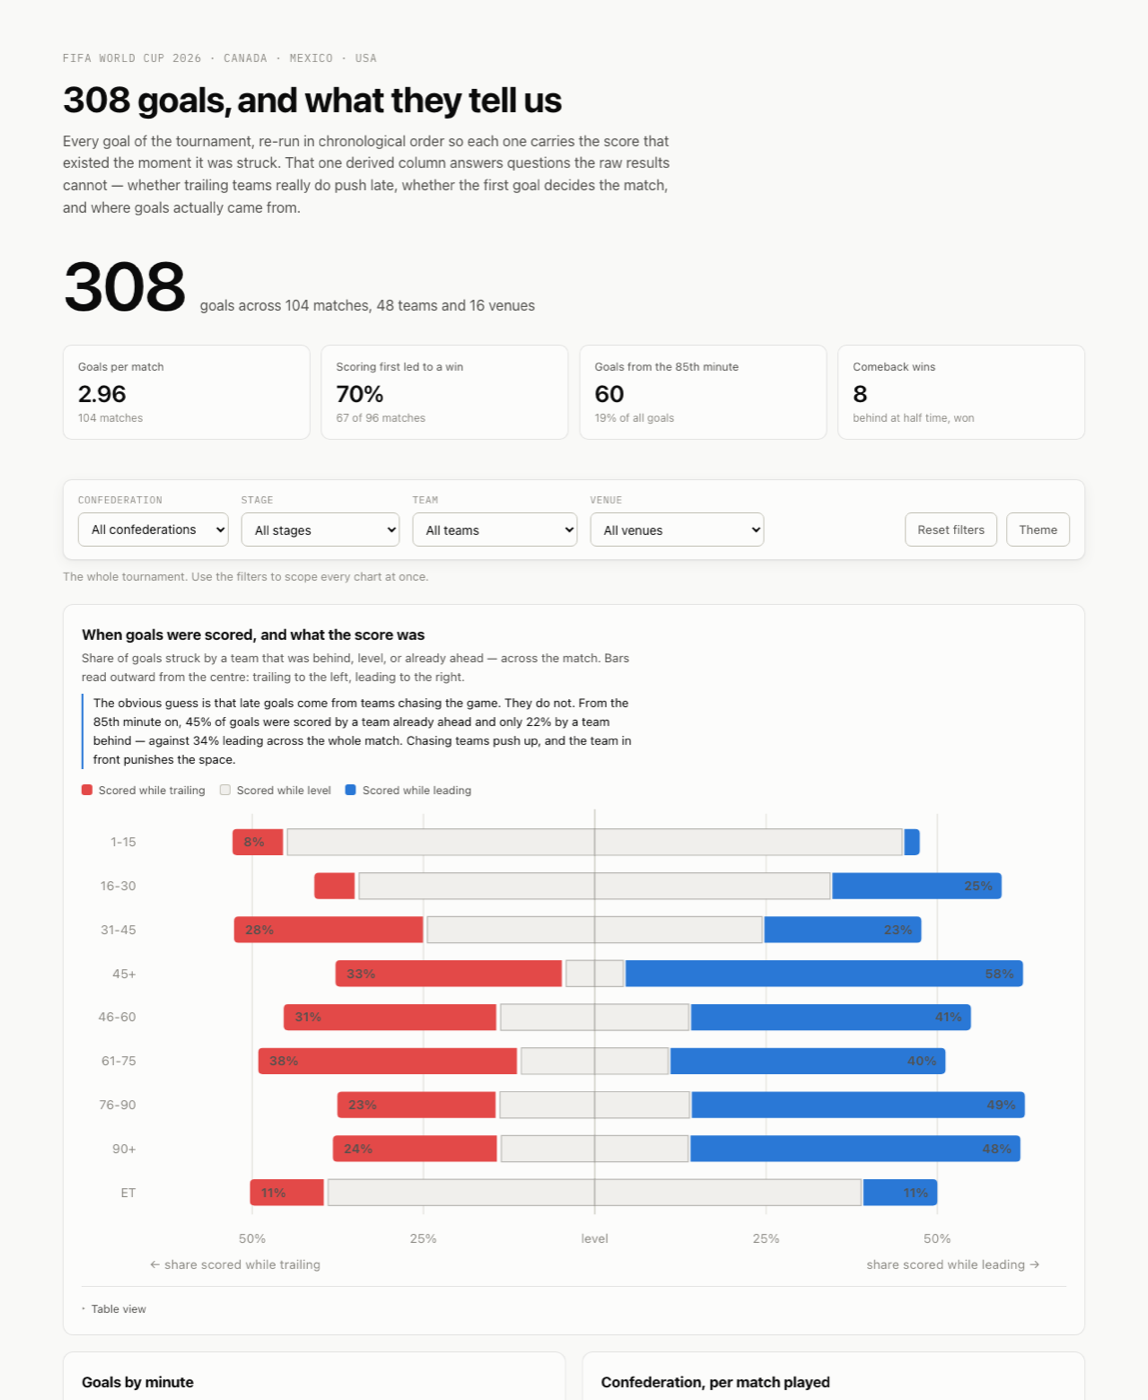
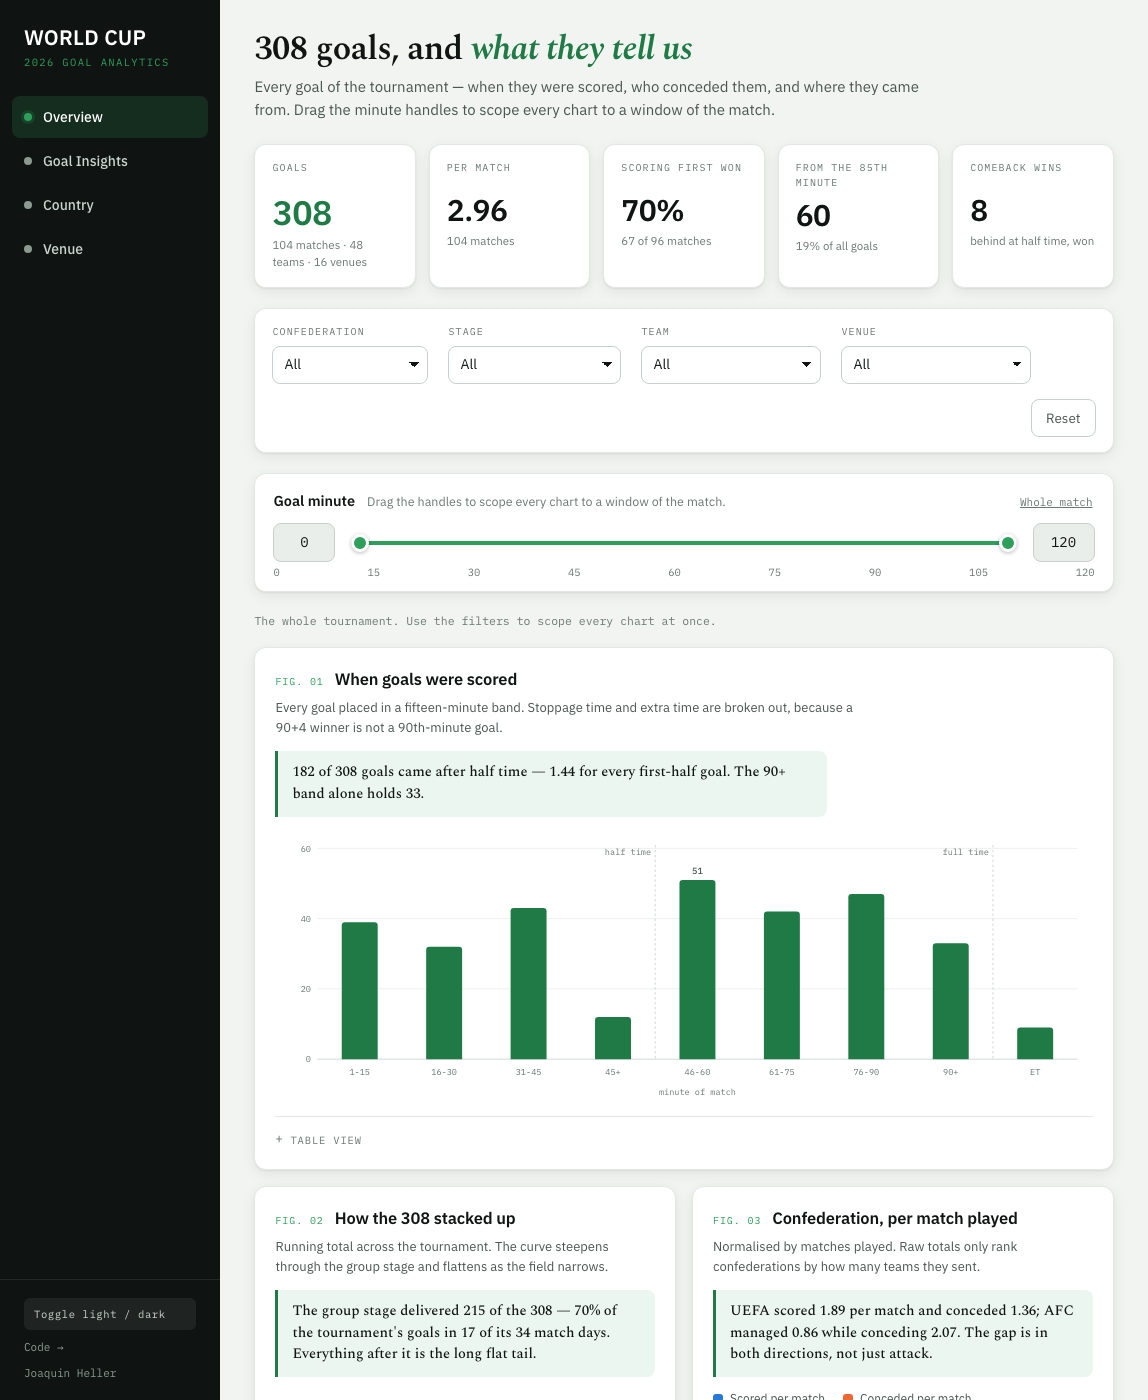
Update the World Cup case study for the rebuilt dashboard
Four views, the joined squad data, and the assertion count. New hero image.

diff --git a/projects/worldcup.html b/projects/worldcup.html
@@ -29,18 +29,29 @@
 <div class="shell article">
 <a class="back" href="../#work">← All work</a>
 
-<h1>308 goals, and the column that made them interesting</h1>
+<h1>308 goals, and the columns that made them interesting</h1>
 <div class="meta">
   <span>Python</span><span>Hand-rolled SVG</span>
-  <span>Data pipeline</span><span>Zero dependencies</span>
+  <span>Data pipeline</span><span>Zero dependencies</span><span>Joined sources</span>
 </div>
 <div class="prose">
 
 <p><a href="https://joacothecoder.github.io/worldcup-2026-dashboard/"><strong>Open the live dashboard →</strong></a> &nbsp;·&nbsp; <a href="https://github.com/JoacoTheCoder/worldcup-2026-dashboard">Code on GitHub</a></p>
 
 <figure>
-  <img src="../assets/worldcup.png" alt="The World Cup 2026 dashboard, showing a diverging bar chart of goals by score state across the match.">
+  <img src="../assets/worldcup.png" alt="The World Cup 2026 dashboard: a sidebar app showing goals by minute, KPI tiles and a cumulative goal curve.">
 </figure>
+
+<h2>What it does now</h2>
+<p>
+  Four views behind a sidebar. <strong>Overview</strong> covers when goals were scored and how
+  the 308 accumulated. <strong>Goal Insights</strong> covers who scores — by age, by position,
+  by name. <strong>Country</strong> takes one team and plots every goal it scored by match and
+  minute, coloured by whether that team was losing, drawing or winning at that moment.
+  <strong>Venue</strong> takes one stadium and places it among the sixteen. A dual-handle
+  minute slider scopes every chart to a window of the match, and because it runs on the derived
+  sort key, a window ending at 90 still contains the 90+4 goals.
+</p>
 
 <h2>Why I built it</h2>
 <p>
@@ -130,7 +141,7 @@ for event in sorted(events, key=lambda e: e["order"]):
 
 <h2>Validation, because a silent break is the real risk</h2>
 <p>
-  The pipeline refuses to write anything until fifteen assertions pass. Five check against
+  The pipeline refuses to write anything until twenty-two assertions pass. Several check against
   facts published elsewhere, so an upstream change can't slip through unnoticed:
 </p>
 <pre><code>[ok] matches                          104
@@ -152,7 +163,15 @@ for event in sorted(events, key=lambda e: e["order"]):
   interpreter. It runs on any Python 3 on any machine, today and in two years.</li>
   <li><strong>No charting library.</strong> The charts are hand-written SVG. That sounds like
   extra work until you try to make a library produce 2px gaps between stacked segments and
-  rounded ends only at the data end. It also means no CDN, so the page works offline.</li>
+  rounded ends only at the data end. Nothing on the page loads from a CDN except the two
+  typefaces, and those have declared fallbacks.</li>
+  <li><strong>Two feeds, joined and validated.</strong> Squad lists give every scorer a position
+  and a date of birth, which is where "which kind of player scores, and at what age" comes from.
+  Both feeds are the same public-domain source, so the join costs nothing in dependencies — but
+  178 scorer names had to be matched against squad lists, and a wrong match files a striker's
+  goals under a defender. Exact matching got 148. Folding accents got 162. Two team aliases and
+  six hand-checked transliterations got the rest. Nothing is fuzzy-matched: a name that will not
+  join fails the build rather than landing in an "Unknown" bucket.</li>
   <li><strong>The colours were validated, not chosen.</strong> The palette was run through a
   colourblind-separation check in both light and dark modes rather than eyeballed. Score
   state is encoded as diverging — trailing and leading are opposite poles — because it's
